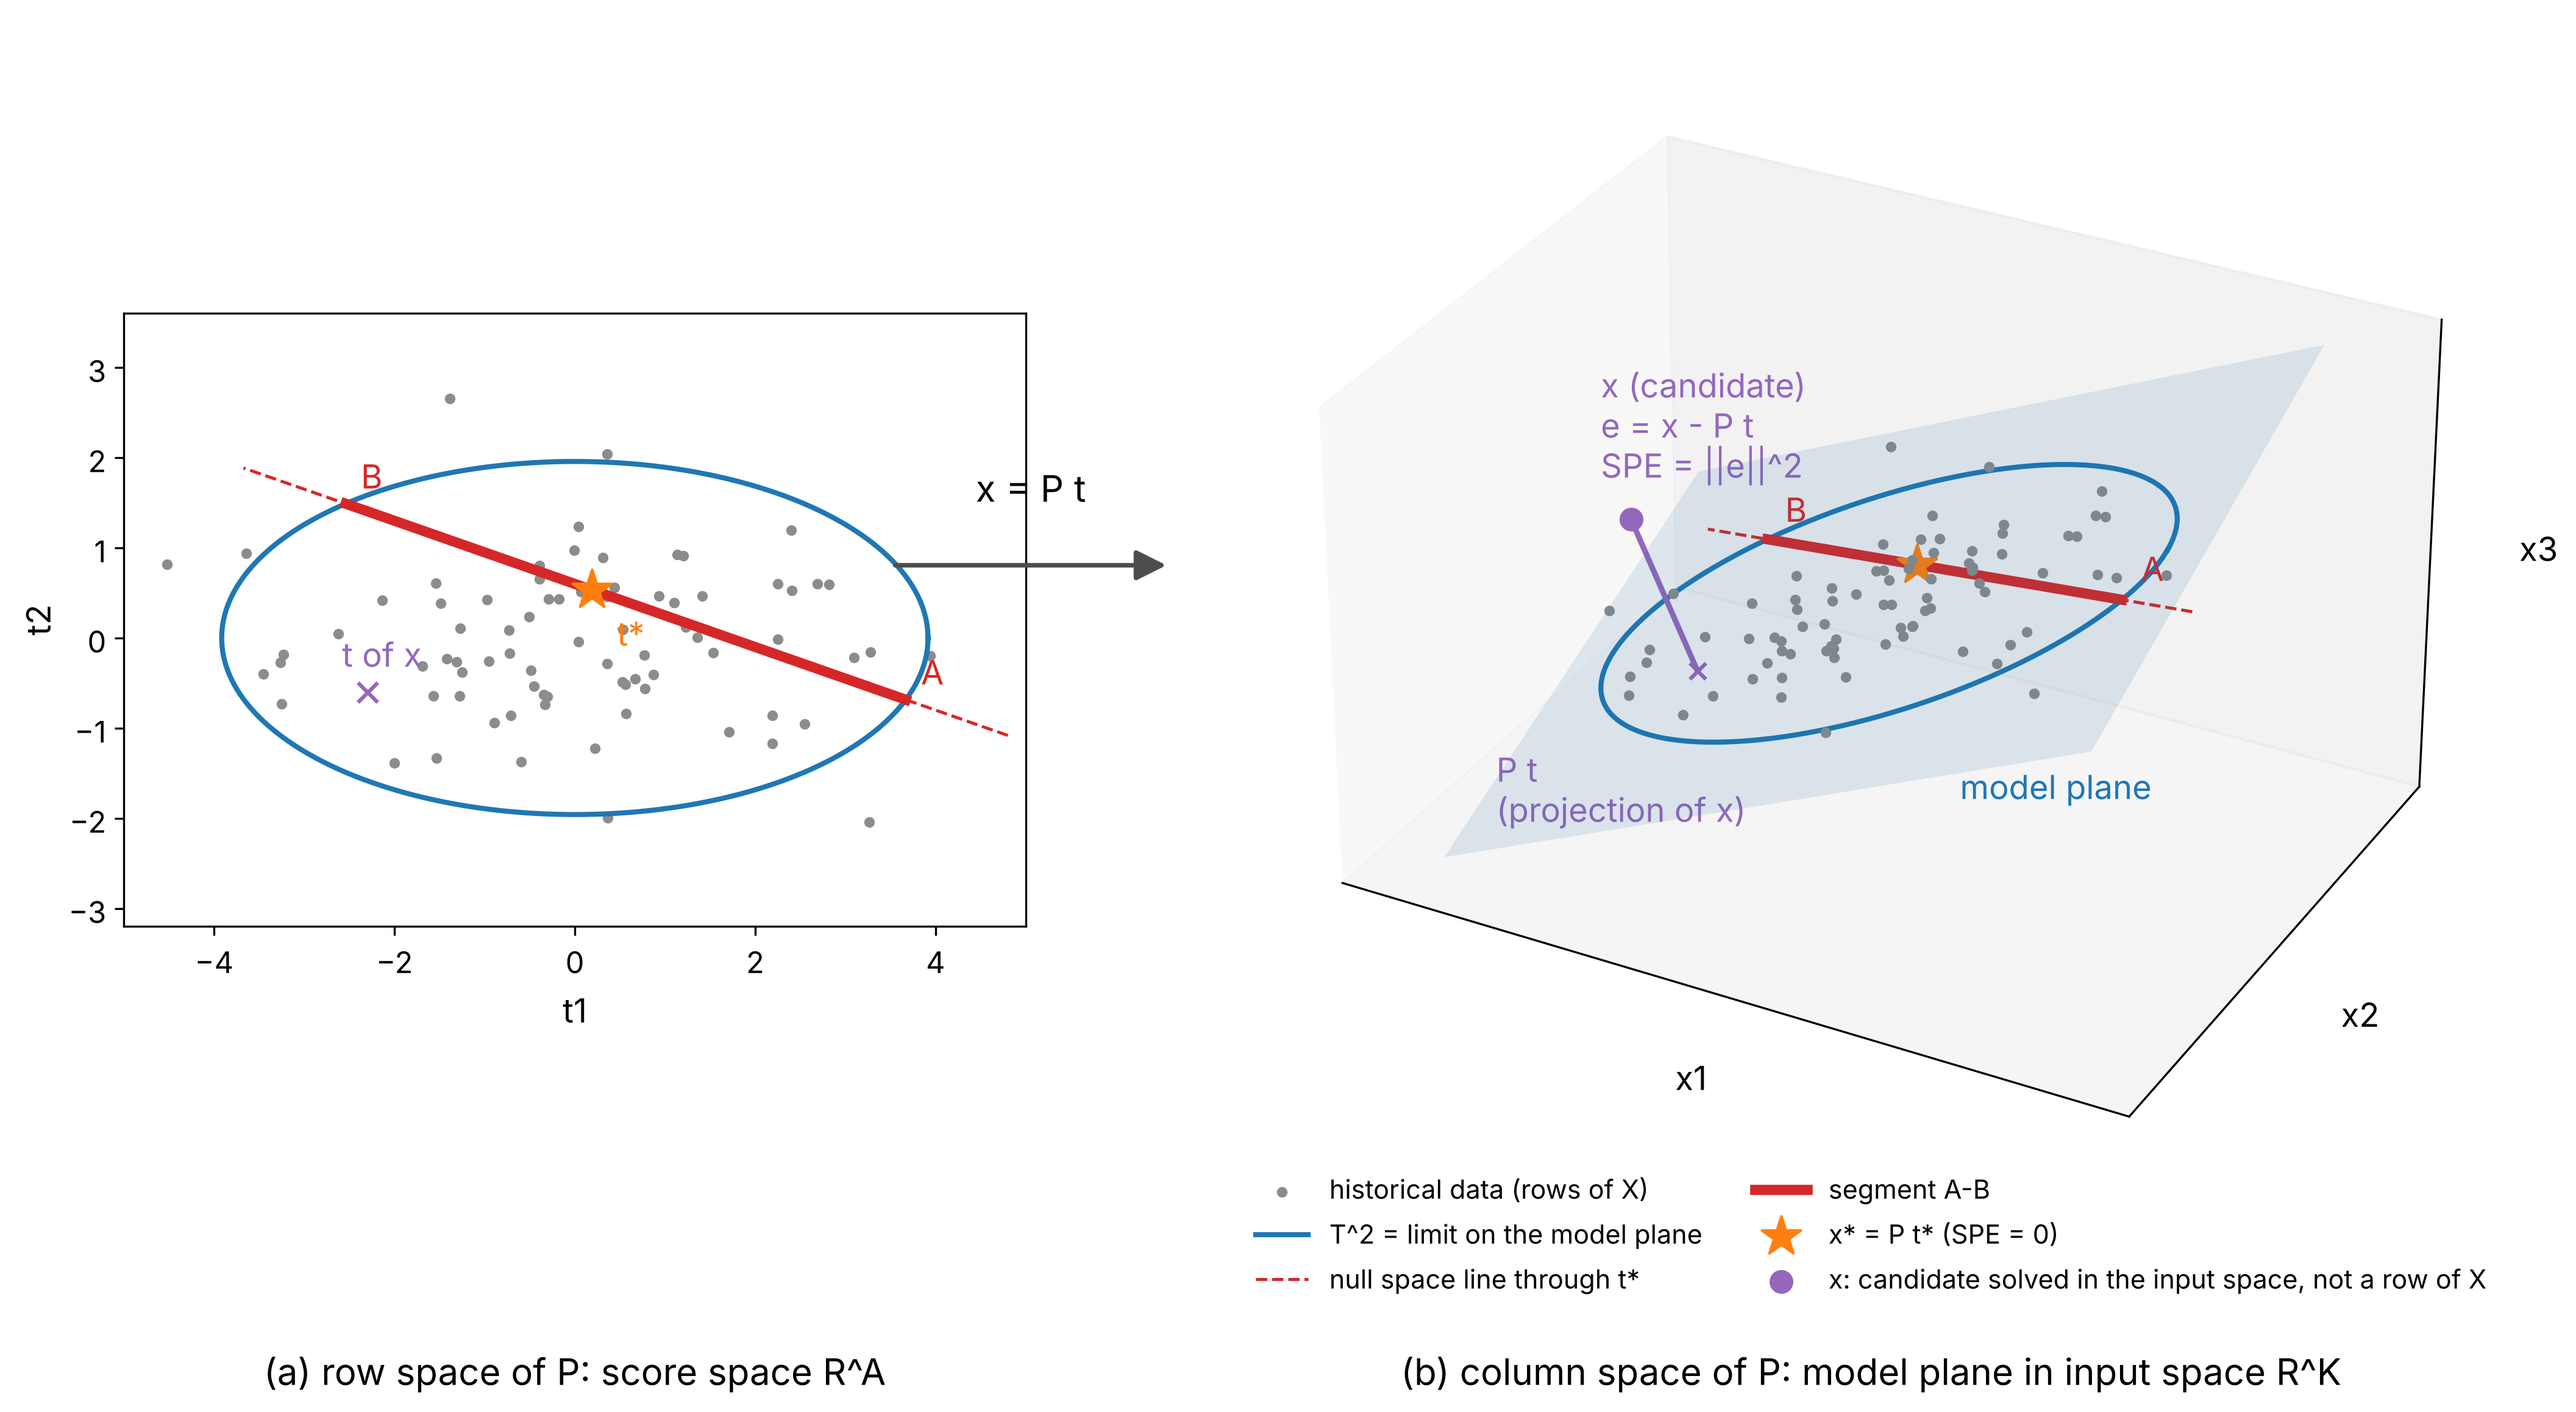
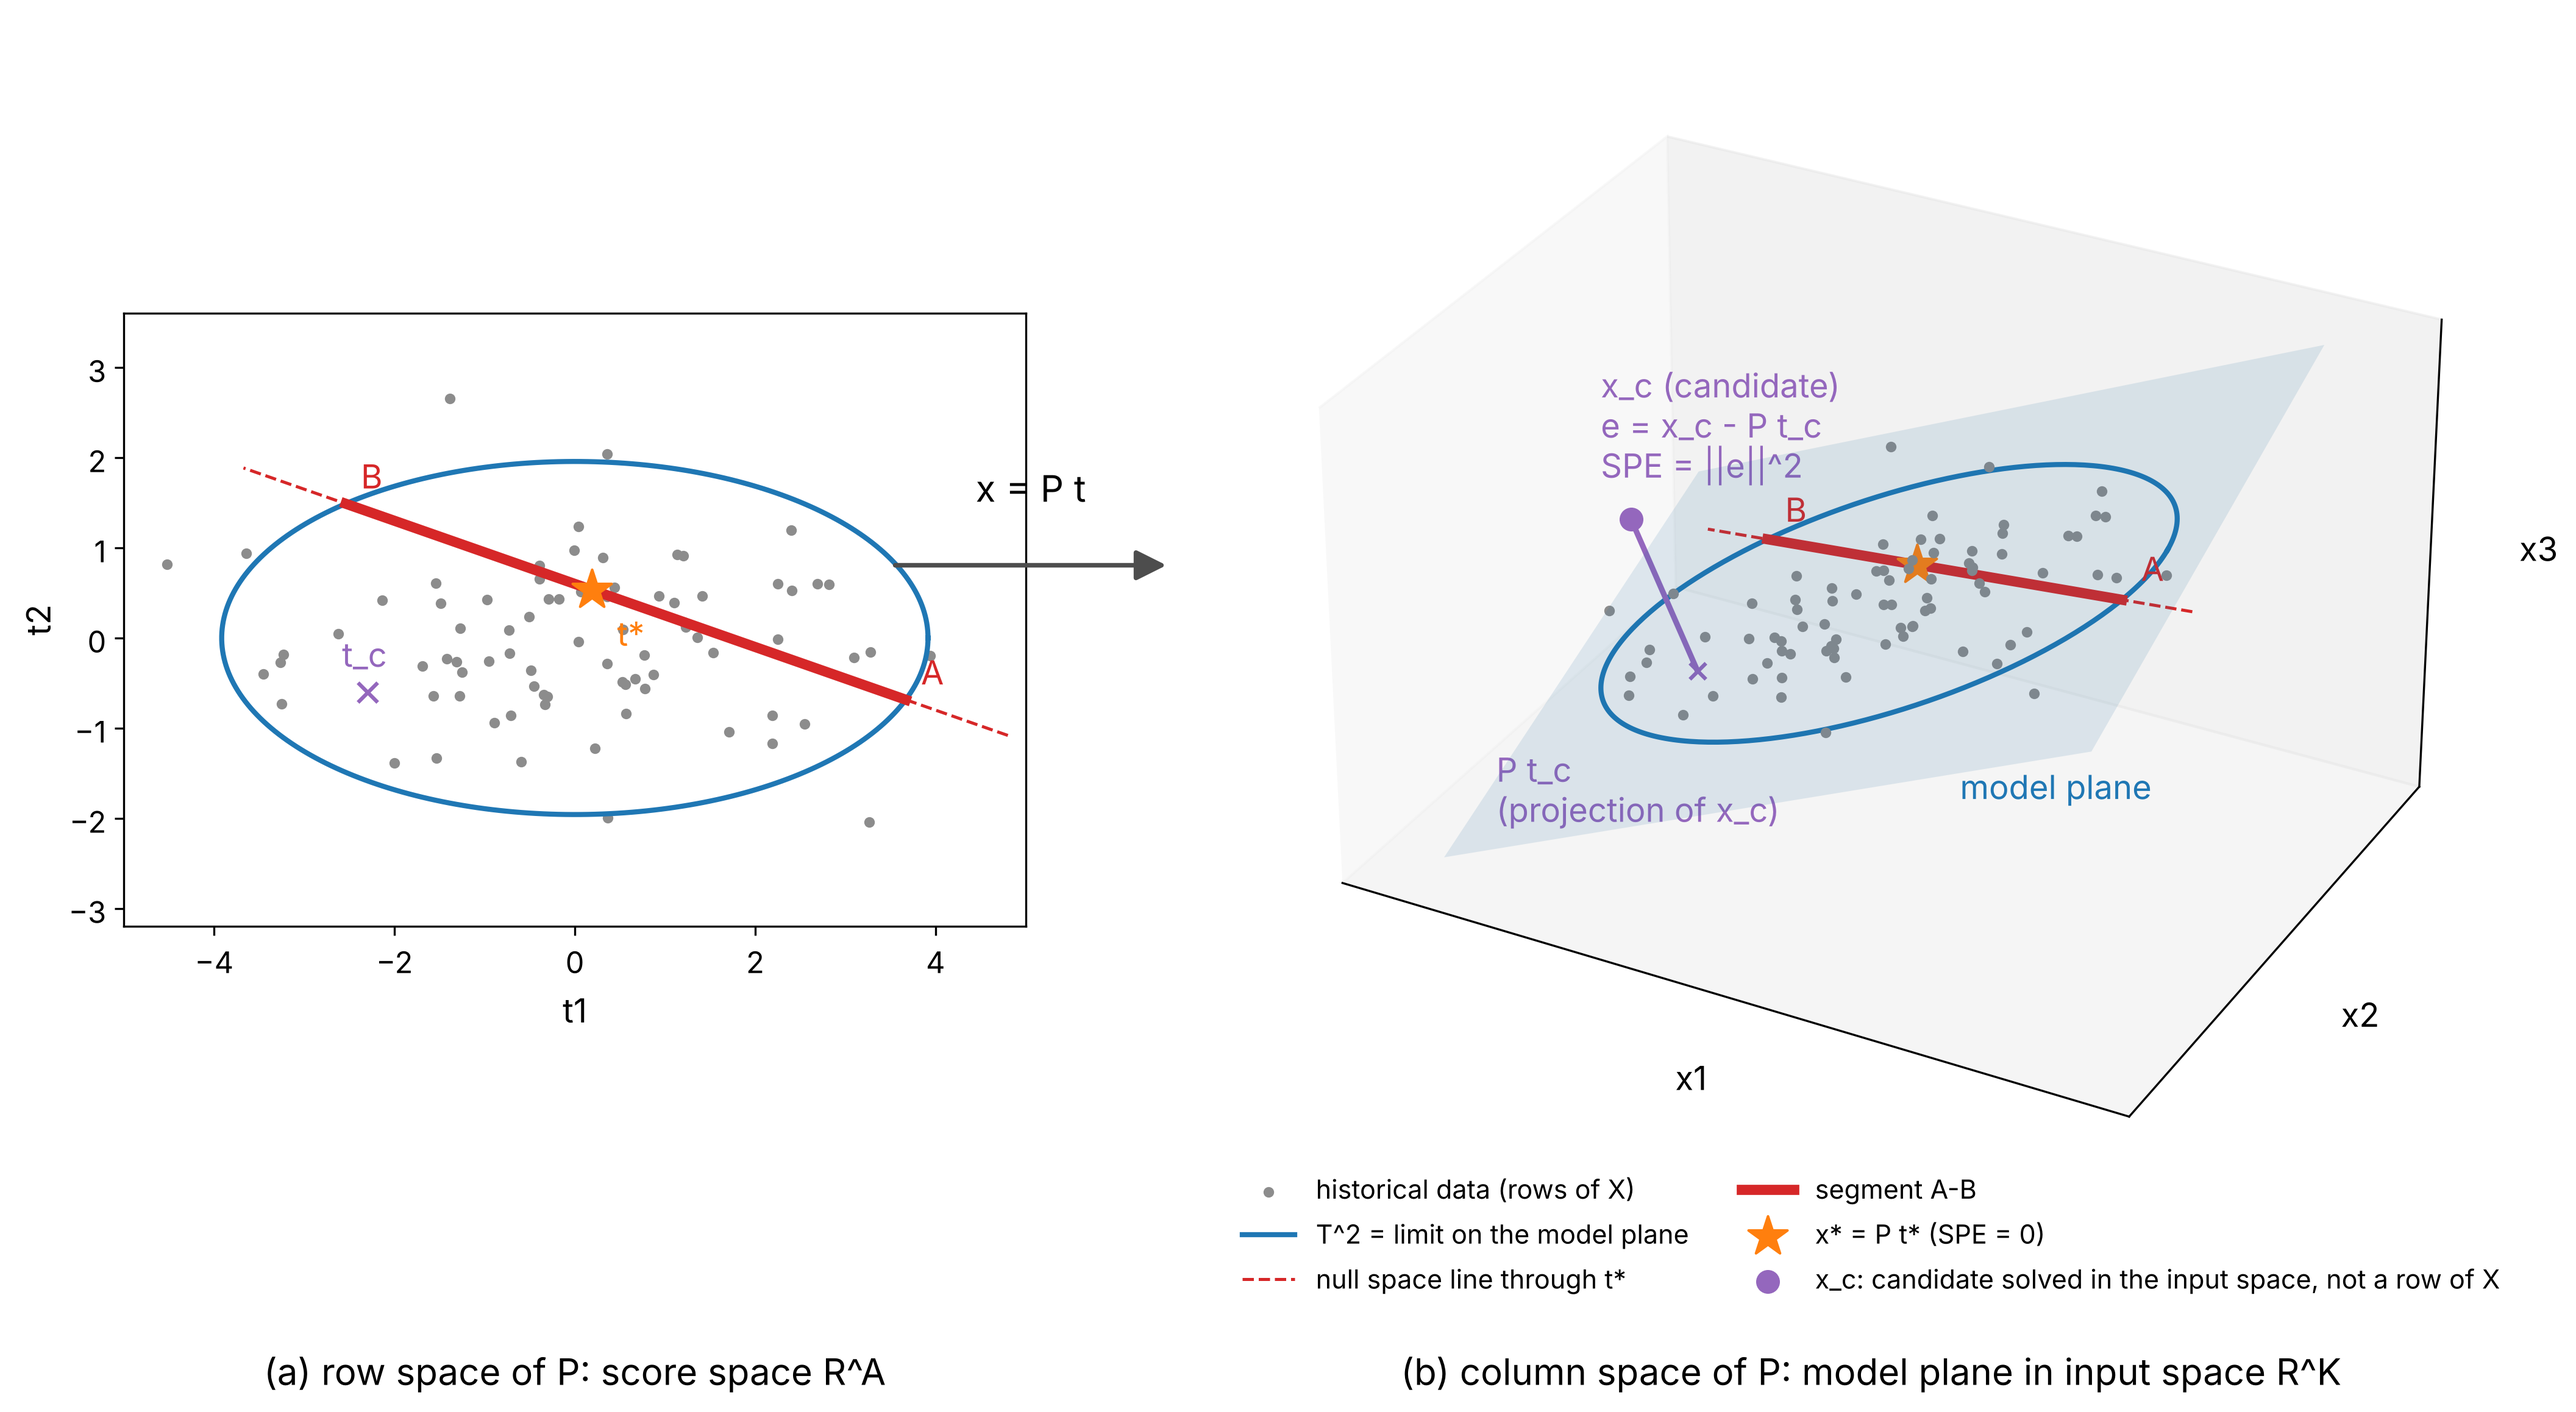
Name the purple candidate of Fig 10 x_c and its projection P t_c
Claude-Session: https://claude.ai/code/session_01GkUUsD7iqvuHXk9r2Ngc7Y

Changed region(s): [[0.4998, 0.839, 0.9683, 0.9322], [0.6247, 0.2486, 0.7184, 0.3107]]

diff --git a/Models/Inverse-Problem/inverse_problem_fig.py b/Models/Inverse-Problem/inverse_problem_fig.py
@@ -10,7 +10,7 @@ Changelog:
     0.15.0: Add fig_3, the null space and the T^2 validity region in the score plane.
 """
 __author__ = 'yRocket'
-__version__ = "0.21.1.2026.11.2"  # Semantic Versioning: Major.Minor.Patch.Date(YYYY.M.D)
+__version__ = "0.21.2.2026.11.2"  # Semantic Versioning: Major.Minor.Patch.Date(YYYY.M.D)
 
 import argparse
 import pathlib
@@ -813,7 +813,7 @@ def fig_10(out_folder: pathlib.Path) -> pathlib.Path:
     ax2.scatter(*t_off, s=60, marker='x', color=COLORS[4], zorder=5)
     ax2.annotate('t*', t_star, textcoords='offset points', xytext=(10, -22), fontsize=text_size,
                  color=COLORS[1])
-    ax2.annotate('t of x', t_off, textcoords='offset points', xytext=(-10, 10), fontsize=text_size,
+    ax2.annotate('t_c', t_off, textcoords='offset points', xytext=(-10, 10), fontsize=text_size,
                  color=COLORS[4])
     for name, point in zip(('A', 'B'), seg_t):
         ax2.annotate(name, point, textcoords='offset points', xytext=(6, 6), fontsize=text_size,
@@ -840,12 +840,12 @@ def fig_10(out_folder: pathlib.Path) -> pathlib.Path:
     ax.plot(*np.array([point_a, point_b]).T, color=COLORS[3], linewidth=4.0, label='segment A-B')
     ax.scatter(*x_star, s=260, marker='*', color=COLORS[1], depthshade=False,
                label='x* = P t* (SPE = 0)')
-    ax.scatter(*x_off, s=70, color=COLORS[4], depthshade=False, label='x: candidate solved in the input space, not a row of X')
+    ax.scatter(*x_off, s=70, color=COLORS[4], depthshade=False, label='x_c: candidate solved in the input space, not a row of X')
     ax.scatter(*foot, s=40, marker='x', color=COLORS[4], depthshade=False)
     ax.plot(*np.array([x_off, foot]).T, color=COLORS[4], linewidth=2.2)
-    ax.text(*(x_off + np.array([-0.4, 0.0, 0.35])), 'x (candidate)\ne = x - P t\nSPE = ||e||^2', color=COLORS[4],
+    ax.text(*(x_off + np.array([-0.4, 0.0, 0.35])), 'x_c (candidate)\ne = x_c - P t_c\nSPE = ||e||^2', color=COLORS[4],
             fontsize=text_size)
-    ax.text(*(foot + np.array([-2.6, -0.4, -2.0])), 'P t\n(projection of x)', color=COLORS[4], fontsize=text_size)
+    ax.text(*(foot + np.array([-2.6, -0.4, -2.0])), 'P t_c\n(projection of x_c)', color=COLORS[4], fontsize=text_size)
     for name, point in (('A', point_a), ('B', point_b)):
         ax.text(*(point + np.array([0.15, 0.15, 0.15])), name, color=COLORS[3], fontsize=text_size)
     ax.text(*(loadings @ np.array([3.0, -3.4])), 'model plane', color=COLORS[0],

diff --git a/Models/Inverse-Problem/inverse-problem-ko.md b/Models/Inverse-Problem/inverse-problem-ko.md
@@ -1,5 +1,5 @@
 # Inverse Problem and Model Inversion
-Rev. 136 | Created: 2026-08-28 | Updated: 2026-11-02 04:20 UTC
+Rev. 137 | Created: 2026-08-28 | Updated: 2026-11-02 10:38 UTC
 
 - [1. Definition](#1-definition)
   - [1.1 Forward problem and inverse problem](#11-forward-problem-and-inverse-problem)
@@ -866,7 +866,7 @@ SPE 와 model plane의 관계를 입력이 3 개인 경우로 그리면 아래 F
 Fig 10. Row space and column space of the loading matrix P, the T^2 limit and SPE
 
 - (a): $\mathbf{P}$ 의 row space, 곧 score 공간이다. 그 위의 타원, null space 직선, 선분 A–B, $\mathbf{t}^{\ast}$ 는 Fig 3 (a) 와 같은 구성이다.
-- (b): $\mathbf{P}$ 의 column space, 곧 model plane 이다. (a) 의 점을 $\mathbf{x} = \mathbf{P}\mathbf{t}$ 로 옮긴 것이며, 평면을 벗어난 $\mathbf{x}$ 의 수선 길이 제곱이 SPE 이다.
+- (b): $\mathbf{P}$ 의 column space, 곧 model plane 이다. (a) 의 점을 $\mathbf{x} = \mathbf{P}\mathbf{t}$ 로 옮긴 것이며, 평면을 벗어난 $`\mathbf{x}_{c}`$ 의 수선 길이 제곱이 SPE 이다.
 
 Fig 10 에서 해를 구하는 방법은 아래의 3 가지이다.
 
@@ -878,4 +878,4 @@ Fig 10 에서 해를 구하는 방법은 아래의 3 가지이다.
 
 $\mathbf{P}$ 의 row space 는 $\mathbb{R}^{A}$ 의 부분공간으로 score 공간, 곧 latent space 이며, $\mathbf{P}$ 의 열이 선형독립이면 $\mathbb{R}^{A}$ 전체가 된다. 그래서 $\mathbf{x} = \mathbf{P}\mathbf{t}$ 는 row space 의 점 $\mathbf{t}$ 를 column space, 곧 model plane 의 점으로 옮긴다. 이 평면 위의 타원, null space 직선, 선분 A–B, $\mathbf{x}^{\ast}$ 는 Fig 3 (a) 의 score 평면을 $\mathbf{P}$ 로 입력 공간에 옮긴 것이다. 입력 $\mathbf{x}$ 는 $x_1$, $x_2$, $x_3$ 의 값 한 set, 곧 $\mathbf{x} = (x_1, x_2, x_3)$ 이다. Model-agnostic numerical optimization 방법은 score 를 거치지 않고 $x_1$, $x_2$, $x_3$ 세 값을 바꿔 가며 예측이 목표 $\mathbf{y}^{\ast}$ 에 맞는 set 을 찾는다. 반대로 PLS inversion 의 Minimum-norm solution 방법과 Null space 방법은 모두 $t_1$, $t_2$ 두 값을 먼저 찾고 $\mathbf{x} = \mathbf{P}\mathbf{t}$ 로 $x_1$, $x_2$, $x_3$ 를 계산하므로, 두 방법의 해는 늘 model plane 위에 놓여 SPE 가 0 이다. $`\mathbf{P}\mathbf{t} = t_{1} \mathbf{p}_{1} + t_{2} \mathbf{p}_{2}`$ 는 $\mathbf{P}$ 의 열들의 선형결합이고, 이 선형결합을 모두 모은 집합이 column space, 곧 model plane 이다. 그래서 $\mathbf{t}$ 를 어떤 값으로 두어도 $\mathbf{P}\mathbf{t}$ 는 그 평면 위에 놓인다.
 
-Model-agnostic numerical optimization 방법의 해인 보라 동그라미 $\mathbf{x}$ 가 평면을 벗어나면, 평면에 내린 수선 $\mathbf{e} = \mathbf{x} - \mathbf{P}\mathbf{t}$ 의 길이 제곱이 식 (14) 의 SPE 이다. 그림의 점과 평면은 그림을 위해 만든 데이터로 그렸으며, latent 변수의 개수 $A$ 를 2 로, 입력의 개수 $K$ 를 3 으로 두었다. 이 그림은 score 공간의 차원이 입력 공간보다 낮은 $A \lt K$ 일 때만 그릴 수 있으며, 이 조건은 임의로 정한 것이 아니다. $A = K$ 이면 $\mathbf{P}$ 의 열이 입력 공간 전체를 이루어 어떤 $\mathbf{x}$ 도 $\mathbf{P}\mathbf{t}$ 로 정확히 나타나므로, 잔차 $\mathbf{e}$ 가 0 이 되어 SPE 가 늘 0 이고 그림에 보일 것이 없다. 입력과 latent 변수가 모두 2 개인 Appendix D 가 그런 경우여서, 이 그림은 입력을 하나 더한 경우로 그렸다.
+Model-agnostic numerical optimization 방법의 해인 보라 동그라미 $`\mathbf{x}_{c}`$ (c 는 candidate) 가 평면을 벗어나면, 평면에 내린 수선 $`\mathbf{e} = \mathbf{x}_{c} - \mathbf{P}\mathbf{t}_{c}`$ 의 길이 제곱이 식 (14) 의 SPE 이다. $`\mathbf{t}_{c}`$ 는 $`\mathbf{x}_{c}`$ 의 score 이고, $`\mathbf{P}\mathbf{t}_{c}`$ 는 $`\mathbf{x}_{c}`$ 를 평면에 내린 projection 이다. 그림의 점과 평면은 그림을 위해 만든 데이터로 그렸으며, latent 변수의 개수 $A$ 를 2 로, 입력의 개수 $K$ 를 3 으로 두었다. 이 그림은 score 공간의 차원이 입력 공간보다 낮은 $A \lt K$ 일 때만 그릴 수 있으며, 이 조건은 임의로 정한 것이 아니다. $A = K$ 이면 $\mathbf{P}$ 의 열이 입력 공간 전체를 이루어 어떤 $\mathbf{x}$ 도 $\mathbf{P}\mathbf{t}$ 로 정확히 나타나므로, 잔차 $\mathbf{e}$ 가 0 이 되어 SPE 가 늘 0 이고 그림에 보일 것이 없다. 입력과 latent 변수가 모두 2 개인 Appendix D 가 그런 경우여서, 이 그림은 입력을 하나 더한 경우로 그렸다.

diff --git a/Models/Inverse-Problem/inverse-problem.md b/Models/Inverse-Problem/inverse-problem.md
@@ -1,5 +1,5 @@
 # Inverse Problem and Model Inversion
-Rev. 49 | Created: 2026-10-25 | Updated: 2026-11-02 04:20 UTC
+Rev. 50 | Created: 2026-10-25 | Updated: 2026-11-02 10:38 UTC
 
 - [1. Definition](#1-definition)
   - [1.1 Forward problem and inverse problem](#11-forward-problem-and-inverse-problem)
@@ -866,7 +866,7 @@ Drawing the relation between SPE and the model plane for three inputs gives Fig 
 Fig 10. Row space and column space of the loading matrix P, the T^2 limit and SPE
 
 - (a): the row space of $\mathbf{P}$, the score space. The ellipse, the null space line, the segment A–B and $\mathbf{t}^{\ast}$ on it are laid out as in Fig 3 (a).
-- (b): the column space of $\mathbf{P}$, the model plane. It holds the points of (a) carried by $\mathbf{x} = \mathbf{P}\mathbf{t}$, and the squared length of the perpendicular from an $\mathbf{x}$ off the plane is SPE.
+- (b): the column space of $\mathbf{P}$, the model plane. It holds the points of (a) carried by $\mathbf{x} = \mathbf{P}\mathbf{t}$, and the squared length of the perpendicular from an $`\mathbf{x}_{c}`$ off the plane is SPE.
 
 Fig 10 shows the following three methods for finding the solution.
 
@@ -878,4 +878,4 @@ The blue surface is the model plane, that is, the column space made of the colum
 
 The row space of $\mathbf{P}$ is a subspace of $\mathbb{R}^{A}$, the score space or latent space, and it is all of $\mathbb{R}^{A}$ when the columns of $\mathbf{P}$ are linearly independent. So $\mathbf{x} = \mathbf{P}\mathbf{t}$ carries a point $\mathbf{t}$ of the row space to a point of the column space, the model plane. The ellipse, the null space line, the segment A–B and $\mathbf{x}^{\ast}$ on it are the score plane of Fig 3 (a) carried into the input space by $\mathbf{P}$. The input $\mathbf{x}$ is one set of values of $x_1$, $x_2$ and $x_3$, that is, $\mathbf{x} = (x_1, x_2, x_3)$. The model-agnostic numerical optimization method varies the three values $x_1$, $x_2$ and $x_3$, without going through the score, to find the set whose prediction meets the target $\mathbf{y}^{\ast}$. The minimum-norm solution method and the null space method of PLS inversion instead both find the two values $t_1$ and $t_2$ first and compute $x_1$, $x_2$ and $x_3$ by $\mathbf{x} = \mathbf{P}\mathbf{t}$, so their solutions always lie on the model plane and have SPE 0. $`\mathbf{P}\mathbf{t} = t_{1} \mathbf{p}_{1} + t_{2} \mathbf{p}_{2}`$ is a linear combination of the columns of $\mathbf{P}$, and the set of all such linear combinations is the column space, the model plane. So $\mathbf{P}\mathbf{t}$ lies on that plane for any value of $\mathbf{t}$.
 
-When the purple circle $\mathbf{x}$, a solution of the model-agnostic numerical optimization method, leaves the plane, the squared length of the perpendicular $\mathbf{e} = \mathbf{x} - \mathbf{P}\mathbf{t}$ dropped to the plane is the SPE of Eq. (14). The points and planes are drawn from data made up for the figure, with $A = 2$ latent variables and $K = 3$ inputs. The figure can be drawn only when the score space has fewer dimensions than the input space, $A \lt K$, and this condition is not an arbitrary choice. When $A = K$ the columns of $\mathbf{P}$ span the whole input space, so every $\mathbf{x}$ is written exactly as $\mathbf{P}\mathbf{t}$, the residual $\mathbf{e}$ is 0, SPE is always 0, and the figure has nothing to show. Appendix D, with 2 inputs and 2 latent variables, is such a case, so this figure adds one more input.
+When the purple circle $`\mathbf{x}_{c}`$ (c for candidate), a solution of the model-agnostic numerical optimization method, leaves the plane, the squared length of the perpendicular $`\mathbf{e} = \mathbf{x}_{c} - \mathbf{P}\mathbf{t}_{c}`$ dropped to the plane is the SPE of Eq. (14). $`\mathbf{t}_{c}`$ is the score of $`\mathbf{x}_{c}`$, and $`\mathbf{P}\mathbf{t}_{c}`$ is the projection of $`\mathbf{x}_{c}`$ onto the plane. The points and planes are drawn from data made up for the figure, with $A = 2$ latent variables and $K = 3$ inputs. The figure can be drawn only when the score space has fewer dimensions than the input space, $A \lt K$, and this condition is not an arbitrary choice. When $A = K$ the columns of $\mathbf{P}$ span the whole input space, so every $\mathbf{x}$ is written exactly as $\mathbf{P}\mathbf{t}$, the residual $\mathbf{e}$ is 0, SPE is always 0, and the figure has nothing to show. Appendix D, with 2 inputs and 2 latent variables, is such a case, so this figure adds one more input.
